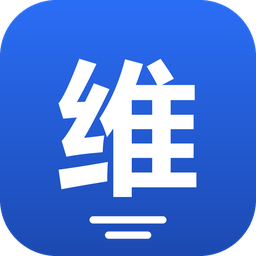
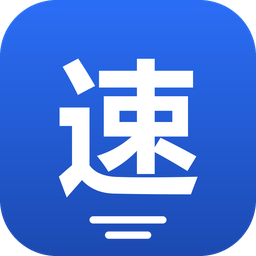
chore: 项目更名为「速派 CrewGo · 维修人员预约管理系统」
- 中文名 维修排班 → 速派，副标题定位为维修人员预约管理系统
- 仓库/镜像/容器/fpk appname：repair-scheduler → crewgo
- 图标字形同步改为「速」

Changed region(s): [[0.2188, 0.2188, 0.7812, 0.7812]]

diff --git a/assets/app.js b/assets/app.js
@@ -1,12 +1,12 @@
 /* ============================================================
-   维修排班 · 房屋维修预约系统
+   速派 · 房屋维修预约系统
    ============================================================ */
 (function () {
   'use strict';
 
   /* ---------- 云服务配置 ---------- */
   const PUBLIC_CONFIG = {
-    endpoint: 'https://repair-scheduler.app.workbuddy.host',
+    endpoint: 'https://crewgo.app.workbuddy.host',
     publishableKey: 'wbpk_gqUUZ2hKLCYrKZ4UyqXqA5_CIw7f3PsqR5DttPEJ3FNPRgg4HTOSevB',
     oauthRelayBaseUrl: 'https://www.workbuddy.cn/v2/as/genie-baas/oauth'
   };
@@ -144,8 +144,8 @@
     const setup = state.loginMode === 'setup';
     const head =
       '<div class="auth-card">' +
-        '<div class="auth-brand"><span class="brand-mark">维</span><h1>维修排班</h1></div>' +
-        '<p class="auth-sub">房屋维修人员预约与排期系统</p>' +
+        '<div class="auth-brand"><span class="brand-mark">速</span><h1>速派</h1></div>' +
+        '<p class="auth-sub">维修人员预约管理系统</p>' +
         '<h2 class="auth-title">' + (setup ? '初始化管理员' : '登录') + '</h2>' +
         (msg ? '<div class="msg ' + (ok ? 'msg-ok' : '') + '">' + esc(msg) + '</div>' : '') +
         '<p class="auth-desc">' + (setup
@@ -218,8 +218,8 @@
         '</form>';
     }
     return '<div class="auth-card">' +
-      '<div class="auth-brand"><span class="brand-mark">维</span><h1>维修排班</h1></div>' +
-      '<p class="auth-sub">房屋维修人员预约与排期系统</p>' +
+      '<div class="auth-brand"><span class="brand-mark">速</span><h1>速派</h1></div>' +
+      '<p class="auth-sub">维修人员预约管理系统</p>' +
       '<h2 class="auth-title">' + (first ? '开始使用' : '绑定你的身份') + '</h2>' +
       '<p class="auth-desc">' + (first ? '只需一步，之后可随时在设置中调整。' : '绑定后，你的排期、通知都会归到这里。') + '</p>' +
       body +
@@ -1079,7 +1079,7 @@
         body.set('template', 'html');
         body.set('content', String(content).split('\n').filter(Boolean)
           .map(l => '<p style="margin:4px 0">' + esc(l) + '</p>').join('') +
-          '<p style="margin:16px 0 0"><a href="' + esc(link) + '">打开维修排班 →</a></p>');
+          '<p style="margin:16px 0 0"><a href="' + esc(link) + '">打开速派 →</a></p>');
       } else {
         body.set('template', 'txt');
         body.set('content', content);
@@ -1136,7 +1136,7 @@
       '<div style="max-width:560px;margin:0 auto;padding:22px 14px;font-family:-apple-system,BlinkMacSystemFont,Segoe UI,PingFang SC,Microsoft YaHei,sans-serif">' +
         '<div style="background:#ffffff;border-radius:12px;overflow:hidden;border:1px solid #e6e8ee">' +
           '<div style="padding:18px 22px 16px;border-bottom:1px solid #eef0f4">' +
-            '<div style="font-size:11px;color:#9aa1ad;letter-spacing:.1em;margin-bottom:7px">维修排班</div>' +
+            '<div style="font-size:11px;color:#9aa1ad;letter-spacing:.1em;margin-bottom:7px">速派</div>' +
             '<div style="font-size:19px;font-weight:700;color:#111827;line-height:1.4">' + esc(opt.title) + '</div>' +
             (badge ? '<div style="margin-top:9px">' + badge + '</div>' : '') +
           '</div>' +
@@ -1149,7 +1149,7 @@
             ? '<div style="padding:10px 22px 20px"><a href="' + esc(opt.action.url) + '" style="display:inline-block;padding:11px 18px;background:#2b6ef6;color:#ffffff;border-radius:8px;text-decoration:none;font-size:14px;font-weight:600">' + esc(opt.action.text) + '</a></div>'
             : '') +
           '<div style="padding:14px 22px;background:#fafbfc;border-top:1px solid #eef0f4;color:#9aa1ad;font-size:12px;line-height:1.7">' +
-            esc(opt.foot || '这封邮件由「维修排班」自动发出，请勿直接回复。') +
+            esc(opt.foot || '这封邮件由「速派」自动发出，请勿直接回复。') +
           '</div>' +
         '</div>' +
       '</div>' +
@@ -1194,7 +1194,7 @@
       template_params: {
         to_email: to,
         to_name: opt.toName || '',
-        subject: opt.subject || '维修排班通知',
+        subject: opt.subject || '速派通知',
         message: opt.html || esc(opt.text || ''),
         plain_text: opt.text || ''
       }
@@ -1933,7 +1933,7 @@
     const r = await sendMail({
       to: to,
       toName: state.profile.name,
-      subject: '【测试】维修排班邮件通道正常',
+      subject: '【测试】速派邮件通道正常',
       kind: 'test',
       html: mailHtml({
         title: '邮件通道已通',
@@ -1976,7 +1976,7 @@
   function testPush() {
     const token = (state.profile.push_token || '').trim();
     if (!token) { toast('请先填写并保存你的 Token'); return; }
-    const ok = pushWeChat(token, '维修排班 · 测试消息', '这条是测试，能收到说明配置成功。\n时间：' + new Date().toLocaleString('zh-CN'), appLink());
+    const ok = pushWeChat(token, '速派 · 测试消息', '这条是测试，能收到说明配置成功。\n时间：' + new Date().toLocaleString('zh-CN'), appLink());
 
     toast(ok ? '已发送，稍等几秒看微信' : '发送失败，请检查 Token');
   }
@@ -2118,7 +2118,7 @@
       await handleCallback();
       await boot();
     } catch (e) {
-      console.error('[维修排班] 启动失败', e && e.message);
+      console.error('[速派] 启动失败', e && e.message);
       showLogin('加载失败：' + ((e && e.message) || '请刷新页面重试'));
     }
   }

diff --git a/server/src/jobs.js b/server/src/jobs.js
@@ -44,12 +44,12 @@ function mailHtml(opt) {
   return '<div style="background:#f4f5f7;padding:22px 14px;font-family:-apple-system,Segoe UI,PingFang SC,Microsoft YaHei,sans-serif">' +
     '<div style="max-width:560px;margin:0 auto;background:#fff;border:1px solid #e6e8ee;border-radius:12px;overflow:hidden">' +
     '<div style="padding:18px 22px;border-bottom:1px solid #eef0f4">' +
-    '<div style="font-size:11px;color:#9aa1ad;letter-spacing:.1em;margin-bottom:7px">维修排班</div>' +
+    '<div style="font-size:11px;color:#9aa1ad;letter-spacing:.1em;margin-bottom:7px">速派</div>' +
     '<div style="font-size:19px;font-weight:700;color:#111827">' + esc(opt.title) + '</div></div>' +
     '<div style="padding:6px 22px 10px">' +
     (opt.intro ? '<p style="margin:14px 0 0;color:#4b5563;font-size:14px;line-height:1.7">' + esc(opt.intro) + '</p>' : '') +
     body + '</div>' +
-    '<div style="padding:14px 22px;background:#fafbfc;border-top:1px solid #eef0f4;color:#9aa1ad;font-size:12px">' + esc(opt.foot || '这封邮件由「维修排班」自动发出。') + '</div>' +
+    '<div style="padding:14px 22px;background:#fafbfc;border-top:1px solid #eef0f4;color:#9aa1ad;font-size:12px">' + esc(opt.foot || '这封邮件由「速派」自动发出。') + '</div>' +
     '</div></div>';
 }
 
@@ -84,7 +84,7 @@ async function sendMail(cfg, opt) {
         template_params: {
           to_email: opt.to,
           to_name: opt.toName || '',
-          subject: opt.subject || '维修排班通知',
+          subject: opt.subject || '速派通知',
           message: opt.html || esc(opt.text || ''),
           plain_text: opt.text || ''
         }
@@ -209,7 +209,7 @@ async function runDigest() {
     owner: 'system',
     kind: 'digest',
     subject: '【今日派单】' + today + ' · 共 ' + list.length + ' 单',
-    html: mailHtml({ title: dayLabel(today) + ' 派单汇总', bodyHtml: body, foot: '每天定时发一封，由 NAS 上的维修排班服务自动发出。' })
+    html: mailHtml({ title: dayLabel(today) + ' 派单汇总', bodyHtml: body, foot: '每天定时发一封，由 NAS 上的速派服务自动发出。' })
   });
   if (r.ok) raw().prepare('UPDATE settings SET last_digest_date = ? WHERE id = 1').run(today);
   return r.ok;

diff --git a/server/src/index.js b/server/src/index.js
@@ -1,6 +1,6 @@
 'use strict';
 /**
- * 维修排班 · 自托管服务
+ * 速派 · 自托管服务
  * 一个进程同时做三件事：托管前端静态文件、提供本地 API、跑定时通知任务。
  * 零外部依赖（只用 Node 内置模块 + node:sqlite）。
  */
@@ -16,7 +16,7 @@ const HOST = process.env.HOST || '0.0.0.0';
 const ROOT = process.env.APP_ROOT || path.join(__dirname, '..', '..');
 const VERSION = require('../package.json').version;
 // 飞牛 fnOS 网关会把 /app/<appname>/ 反代进来，这里统一剥掉前缀
-const STRIP = ['/app/repair-scheduler', '/app/repair_scheduler'];
+const STRIP = ['/app/crewgo', '/app/crewgo'];
 
 const MIME = {
   '.html': 'text/html; charset=utf-8',
@@ -231,7 +231,7 @@ const server = http.createServer((req, res) => {
 
 store.open();
 server.listen(PORT, HOST, () => {
-  log('维修排班已启动 v' + VERSION + ' → http://' + HOST + ':' + PORT);
+  log('速派已启动 v' + VERSION + ' → http://' + HOST + ':' + PORT);
   log('数据目录：' + store.DATA_DIR);
   jobs.start(log);
 });

diff --git a/index.html b/index.html
@@ -4,7 +4,7 @@
 <meta charset="utf-8">
 <meta name="viewport" content="width=device-width, initial-scale=1, viewport-fit=cover">
 <meta name="theme-color" content="#ffffff">
-<title>维修排班 · 房屋维修预约系统</title>
+<title>速派 · 维修人员预约管理系统</title>
 <link rel="icon" href="assets/icon.png">
 <link rel="apple-touch-icon" href="assets/icon.png">
 <link rel="stylesheet" href="assets/app.css">
@@ -28,8 +28,8 @@
   <header class="topbar">
     <div class="topbar-inner">
       <div class="brand">
-        <span class="brand-mark">维</span>
-        <span class="brand-name">维修排班</span>
+        <span class="brand-mark">速</span>
+        <span class="brand-name">速派</span>
       </div>
       <nav class="mainnav" id="mainnav">
         <a href="#/board" data-nav="board">排期看板</a>

diff --git a/server/test/api-smoke.js b/server/test/api-smoke.js
@@ -104,7 +104,7 @@ const db = (token, q) => api('/api/db', q, token);
   ok((await api('/api/auth/login', { name: '张工', pin: '4321' })).status === 200, '新 PIN 可登录');
 
   console.log('\n[7] 静态资源');
-  for (const p of ['/', '/assets/app.js', '/assets/app.css', '/assets/local-cloud.js', '/favicon.ico', '/app/repair-scheduler/']) {
+  for (const p of ['/', '/assets/app.js', '/assets/app.css', '/assets/local-cloud.js', '/favicon.ico', '/app/crewgo/']) {
     const r = await fetch(BASE + p);
     ok(r.status === 200 || r.status === 404, p + ' → ' + r.status + ' ' + (r.headers.get('content-type') || ''));
   }

diff --git a/assets/local-cloud.js b/assets/local-cloud.js
@@ -7,7 +7,7 @@
 (function () {
   'use strict';
 
-  const TOKEN_KEY = 'repair_scheduler_token';
+  const TOKEN_KEY = 'crewgo_token';
   window.__LOCAL__ = true; // app.js 用它关掉「谁打开谁补发」的旧逻辑
 
   const getToken = () => { try { return localStorage.getItem(TOKEN_KEY) || ''; } catch (e) { return ''; } };

diff --git a/scripts/gen-icons.py b/scripts/gen-icons.py
@@ -42,9 +42,9 @@ def make(size):
         ))
     img.paste(grad.resize((S, S)), (0, 0), mask)
 
-    # 白色「维」字
+    # 白色「速」字
     f = font(int(S * 0.56))
-    text = '维'
+    text = '速'
     box = d.textbbox((0, 0), text, font=f)
     d.text(((S - (box[2] - box[0])) / 2 - box[0],
             (S - (box[3] - box[1])) / 2 - box[1]), text, font=f, fill=WHITE)

diff --git a/README.md b/README.md
@@ -1,6 +1,6 @@
-# 维修排班 · Repair Scheduler
+# 速派 CrewGo · 维修人员预约管理系统
 
-房屋维修的**预约 + 排期**系统，给维修队内部用：预约人提单（谁、哪天、去哪、修什么），维修工看自己接下来的安排，统筹一眼看完所有人的日历。
+维修人员的**预约 + 排期 + 派单**系统，给维修队内部用：预约人提单（谁、哪天、去哪、修什么），维修工看自己接下来的安排，统筹一眼看完所有人的日历。
 
 **自托管**：一个容器跑完整套（前端 + 本地数据库 + 定时通知），不依赖任何外部服务，适合放在 NAS 上长期跑。
 
@@ -26,8 +26,8 @@
 ## 快速开始（Docker）
 
 ```bash
-git clone https://github.com/<你的用户名>/repair-scheduler.git
-cd repair-scheduler
+git clone https://github.com/<你的用户名>/crewgo.git
+cd crewgo
 
 docker compose up -d --build
 # 打开 http://<NAS或电脑IP>:8080
@@ -36,18 +36,18 @@ docker compose up -d --build
 或者不用 compose：
 
 ```bash
-docker run -d --name repair-scheduler \
+docker run -d --name crewgo \
   -p 8080:8080 \
   -v $(pwd)/data:/data \
   --restart unless-stopped \
-  ghcr.io/<你的用户名>/repair-scheduler:latest
+  ghcr.io/<你的用户名>/crewgo:latest
 ```
 
 首次打开会自动进入**初始化**：填姓名和 PIN，这个账号就是统筹管理员。
 
 ## 安装到飞牛 fnOS（fpk）
 
-1. 到 [Releases](../../releases) 下载 `repair-scheduler-1.0.0.fpk`
+1. 到 [Releases](../../releases) 下载 `crewgo-1.0.0.fpk`
 2. 飞牛应用中心 → 手动安装 → 选择该文件
 3. 装完从桌面图标打开，第一次进入创建管理员
 
